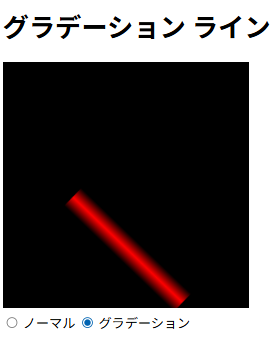
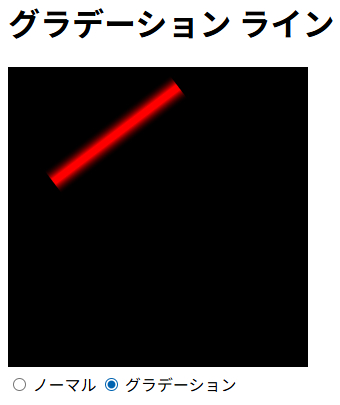
improve

Changed region(s): [[0.0, 0.1458, 0.9242, 0.9913], [0.0, 0.0, 0.9819, 0.1166]]

diff --git a/index.html b/index.html
@@ -37,7 +37,8 @@
         };
 
         // ポリゴンで線を描く関数(グラデーション付き)
-        const drawLineByPolygon = (ctx, x0, y0, x1, y1, lineColor = "255, 255, 255") => {
+        const drawLineWithGradation = (ctx, x0, y0, x1, y1, centerColor = null, edgeColor = 'rgba(0, 0, 0, 0%)') => {
+            if (!centerColor) centerColor = ctx.strokeStyle;
             const lineWidth = ctx.lineWidth;
             const halfWidth = lineWidth / 2;
             // 1. 方向ベクトルの計算
@@ -74,13 +75,13 @@
             const gradEndPointY = y0 + normY * halfWidth;
             const gradient = ctx.createLinearGradient(
                 gradStartPointX, gradStartPointY,
-                gradEndPointX, gradEndPointY
-            );
-            // 中心: 不透明度 1.0 (50%)
-            gradient.addColorStop(0.5, `rgba(${lineColor}, 1.0)`);
-            // 端: 不透明度 0.0 (0% と 100%)
-            gradient.addColorStop(0.0, `rgba(${lineColor}, 0.0)`);
-            gradient.addColorStop(1.0, `rgba(${lineColor}, 0.0)`);
+                gradEndPointX, gradEndPointY);
+            // 中心 (40%～60%)
+            gradient.addColorStop(0.4, centerColor);
+            gradient.addColorStop(0.6, centerColor);
+            // 端 (0% と 100%)
+            gradient.addColorStop(0.0, edgeColor);
+            gradient.addColorStop(1.0, edgeColor);
             // 5. 塗りつぶし
             ctx.fillStyle = gradient;
             ctx.fill();
@@ -118,11 +119,10 @@
             ctx.lineWidth = 30;
             console.assert(radios.length == 2);
             const is_polygon = radios[1].checked;
+            ctx.strokeStyle = 'red';
             if (is_polygon) {
-                const color = '255, 0, 0'; // 赤
-                drawLineByPolygon(ctx, px0, py0, px1, py1, color);
+                drawLineWithGradation(ctx, px0, py0, px1, py1);
             } else {
-                ctx.strokeStyle = 'red';
                 drawLine(ctx, px0, py0, px1, py1);
             }
 
